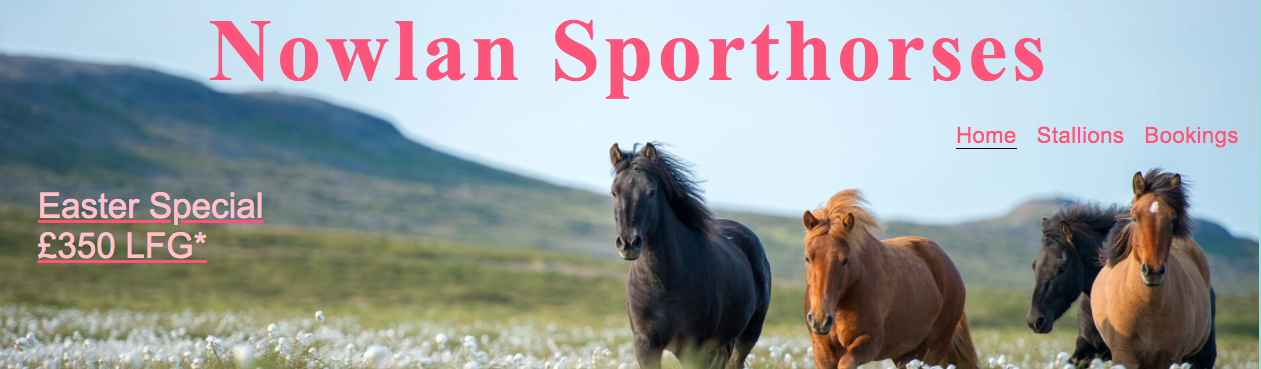
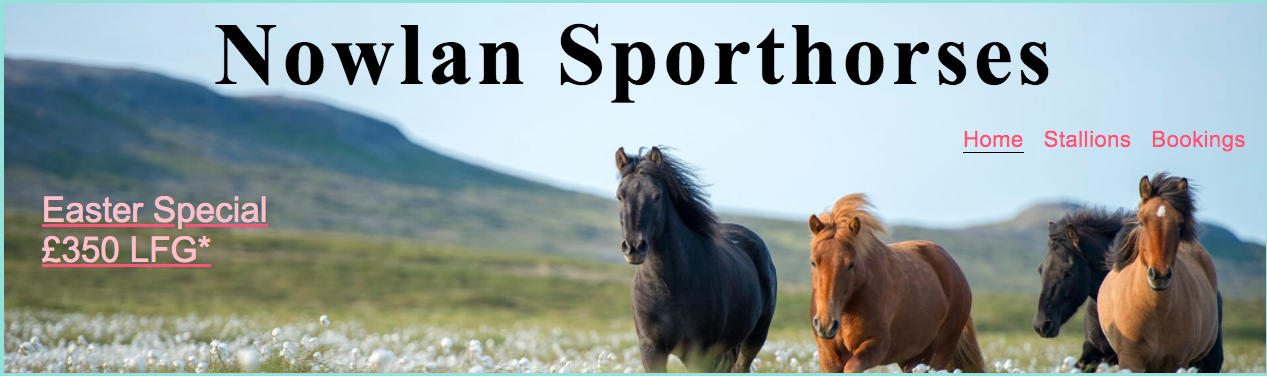
restyle booking form

diff --git a/assets/css/style.css b/assets/css/style.css
@@ -1,8 +1,8 @@
 body {
     font-family: Arial, sans-serif;
     font-weight: 200;
-    color: #F7567C;
-    background-color: #99e1d9;
+    color: #7C6354;
+    background-color: #E3E9C2;
 }
 
 /* headings and logo */
@@ -12,8 +12,7 @@ body {
     background-position: center center;
     background-repeat: no-repeat;
     height: 370px;
-    width: 100%;
-    padding: 0;
+    
 }
 
 #logo {
@@ -24,12 +23,12 @@ body {
     margin: 0 auto;
     letter-spacing: .05em;
     overflow: hidden;
-    color: black;
+    color: #7C6354;
 }
 
 .easter p {
     padding-top: 4%;
-    color: pink;
+    color: #F9FBB2;
     font-size: 35px;
     text-align: left;
     padding-left: 3%;
@@ -55,18 +54,18 @@ body {
 }
 
 #nav a:hover {
-    border-bottom: 1.5px solid black;
-    color: pink;
+    border-bottom: 2px solid #F9FBB2;
+    color: black;
     cursor: pointer;
 }
 
 .active {
-    border-bottom: 1px solid black;
-    color: #F7567C;
+    border-bottom: 2px solid #7C6354;
+    color: #F9FBB2;
 }
 
 .easter a:hover {
-        color: black;
+        color: #7C6354;
 }
 
 /* about section */
@@ -84,8 +83,8 @@ body {
     height: fit-content;
     align-items: center;
     border-radius: 0.625rem;
-    background: #FFFAE3;
-    padding: 0 5vh;
+    background: #F8FCDA;
+    padding: 5vh;
     height: auto;
     margin-top: 3vh;
     margin-bottom: 3vh;
@@ -105,11 +104,13 @@ body {
     padding-left: 3%;
     font-size: 18px;
     color: black;
+    font: bolder;
 }
 .team-two-intro {
     padding-left: 8%;
     font-size: 18px;
     color: black;
+    font: bolder;
 }
 
 .team-two {
@@ -149,34 +150,25 @@ body {
     width: 100%;
 }
 
-/* main image and info next to main image on stallions page */
-
-.horse-info {
-    font-size: 25px;
-    display: inline-block;
-    padding-left: 2%;
+#map {
+    padding-top: 8%;
 }
+
+/* main image and info next to main image on stallions page */
 
 .horse-info > p {
     font-size: 23px;
-    padding-left: 5%;
     text-align: left;    
 }
 
-.main-horse-pic {
-    float: left;
-    padding: 2%;
-}
-
 .horse-breeding {
-    float: right;
-    padding: 2%;
+    font-size: 40px;
+    padding-left: 5%;
 }
 
 .stud {
-    text-align: center;
     font-size: 50px;
-    margin: 1%;
+    text-align: center;
 }
 
 /* column and row for gallery */
@@ -207,8 +199,8 @@ body {
     background: url("../images/clouds2.png");
     background-size: cover;
     background-position: center;
-    height: 415px;
-    font-size: 18px;
+    font-size: 20px;
+    color: black;
 }
 
 .form {
@@ -221,11 +213,17 @@ body {
 
 }
 .submit {
-    font-size: 18px;
+    font-size: 20px;
+    background-color: #F9FBB2;
+    padding: 10px 20px;
+    border-radius: 5px;
+    margin: 0;
+    font-weight: bold;
+    font-family: inherit;
 }
 
 .submit:hover {
-    border-color: rgb(33, 37, 41);
+    border-color: #7C6354;
 }
 
 .special > p {
@@ -250,11 +248,11 @@ body {
 #to-top {
     text-decoration: none;
     display: inherit;
-    color: #F7567C;
+    color: #644536;
     font-size: 22px;
     text-align: center;
-    border-radius: 5px;
     padding-top: 3%;
+    padding-left: 2%;
 }
 
 #to-top:hover {
@@ -266,28 +264,30 @@ body {
 
 footer {
     height: 100px;
+    background: #F9FBB2;
+    align-items: center;
 }
 
 .social-networks {
-    text-align: center;
     padding-top: 1%;
     color: black;
+    text-align: center;
+    padding-top: 2%;
 }
 
 .social-networks i {
     font-size: 200%;
-    margin: 1%;
-    padding-inline: 4%;
     color: black;
+    padding-inline: 3%;
 }
 
-.social-networks>li {
-    display: inline;
-    padding-top: 1%;
+.social-networks > li {
+   padding-top: 1%;
+   display: inline;
 }
 
 .social-networks i:hover {
-    color: blue
+    color: #7C6354;
 }
 
 /* media queries */

diff --git a/stallions.html b/stallions.html
@@ -39,17 +39,16 @@
 
     <section>
         <h2 class="stud">Stallion at Stud</h2>
-            <div class="stallion">
             <div class="sections-wrapper">
             <div class="main-horse-pic">
-                <img src="./assets/images/vagatrot.webp" alt="horse trotting"></div>
-        <h2 class="horse-breeding">Vagabond Z(Valentino x Larino)</h2>
+                <h2 class="horse-breeding">Vagabond Z(Valentino x Larino)</h2>
+                    <img src="./assets/images/vagatrot.webp" alt="horse trotting"></div>
             <div class="horse-info">
-                <p>17.1hh<br><br>
-                D.O.B 2015<br><br>
-                Liver Chestnut<br><br>
-                Jumped 1.60m<br><br>
-                CEM tested<br><br>
+                <p>Height: 17.1hh<br>
+                D.O.B: 2015<br>
+                Color: Liver Chestnut<br>
+                Level: Jumped 1.60m<br>
+                CEM tested<br>
                 OCD and DJD free</p>
             </div></div>
 

diff --git a/bookings.html b/bookings.html
@@ -51,7 +51,7 @@
             <input type="text" name="lname" class="textinput" id="lname" required><br>
             <label for="email">Email Address:</label>
             <input type="email" name="email" class="textinput" id="email"><br>
-            <textarea name="comment" form="bookings" rows="6" cols="54">Ask us anything...</textarea><br>
+            <textarea name="comment" form="bookings" cols="54">Ask us anything...</textarea><br>
             <input type="submit" class="submit" value="Submit">
         </form>
     </section>

diff --git a/README.md b/README.md
@@ -80,10 +80,10 @@ The colour palette chosen is:
 <li>easy on the eye</li>
 
  ![color theme one](./assets/images/colortheme1.png)
-- This pink contrasts great with the paler blue and beige. It was used for the main heading in the hero image and the main headers.
+- This pink contrasts great with the paler blue and beige. It was used for the main headers.
 
  ![color theme two](./assets/images/colortheme2.png)
- - This blue was used for the background. It is lovely nad subtle and just makes everything pop out of it.
+ - This blue was used for the background. It is subtle and just makes everything pop out of it.
 
  ![color theme three](./assets/images/colortheme3.png)
  - This beige was used for the section containers and really stands out against the font which was kept black for contrast.
